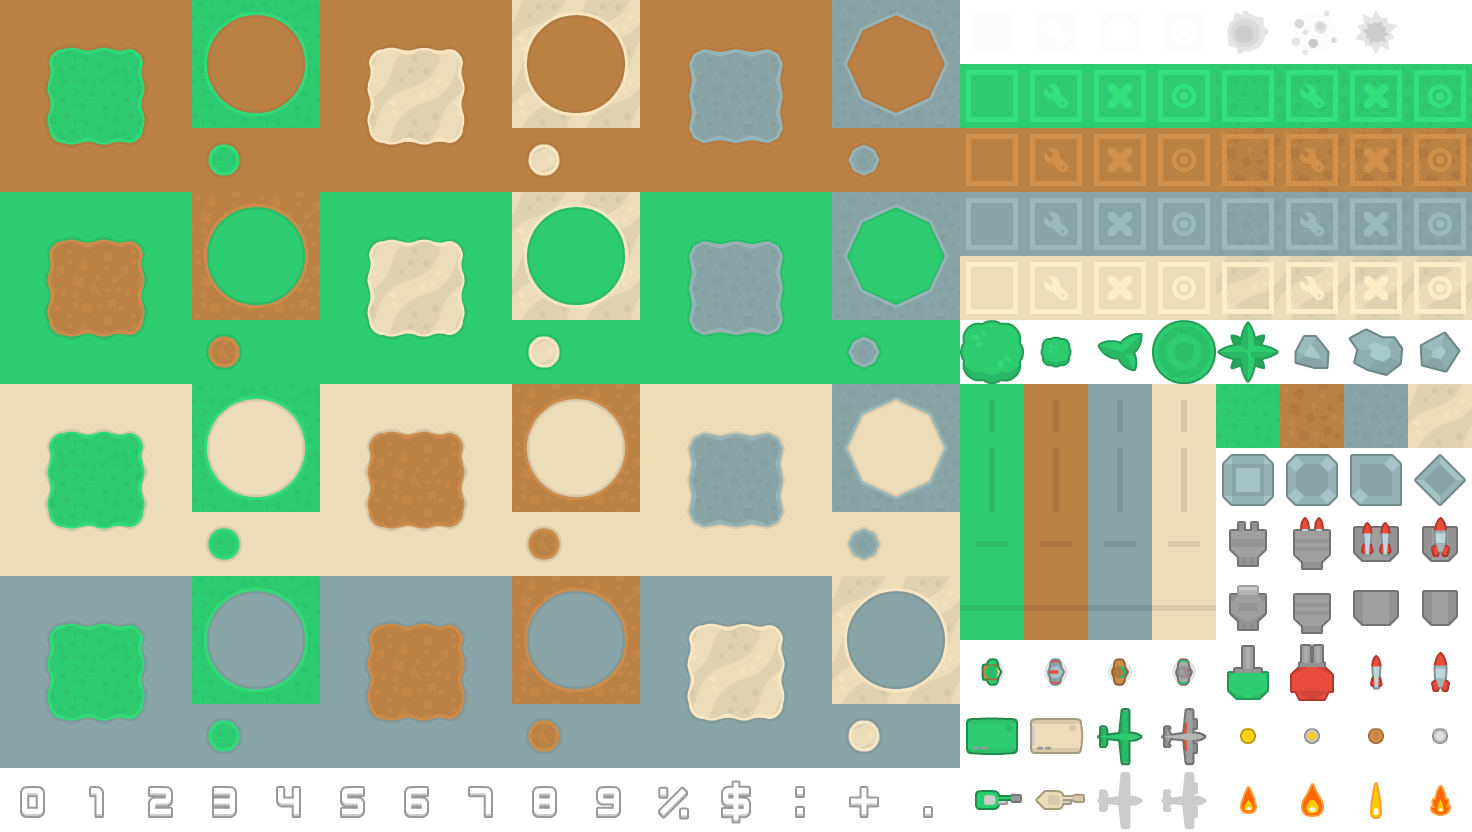
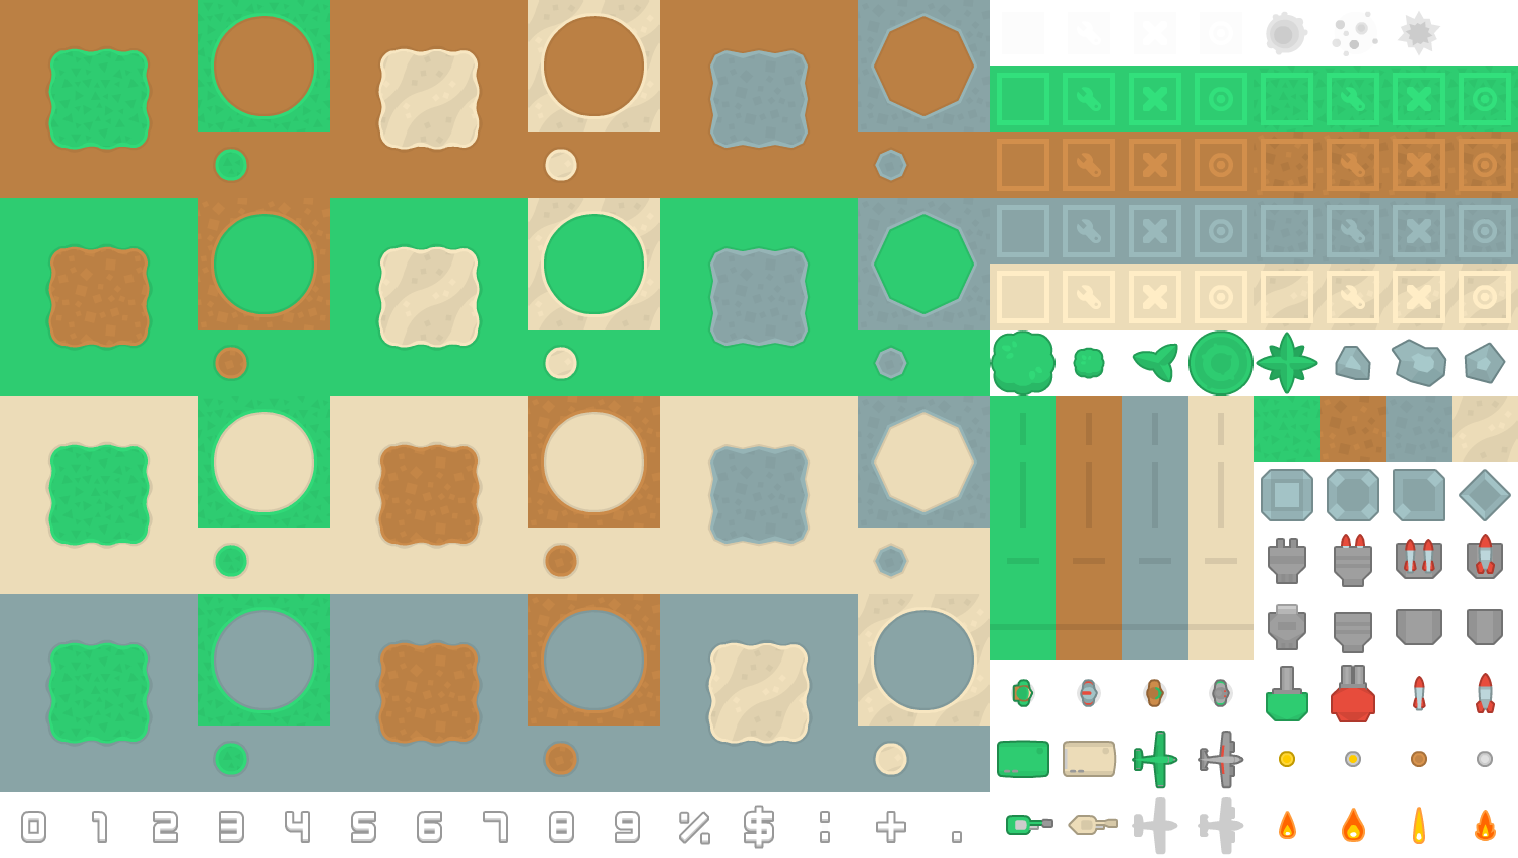
Removed old tile image

diff --git a/js/Scenes.js b/js/Scenes.js
@@ -5,7 +5,7 @@ class BaseScene extends Phaser.Scene {
     }
 
     preload() {
-        this.load.spritesheet('tilesheet', 'assets/tilesheet_Padded.png', {
+        this.load.spritesheet('tilesheet', 'assets/tilesheet.png', {
             frameWidth: 64, frameHeight: 64, margin: 1, spacing: 2
         });
     }
